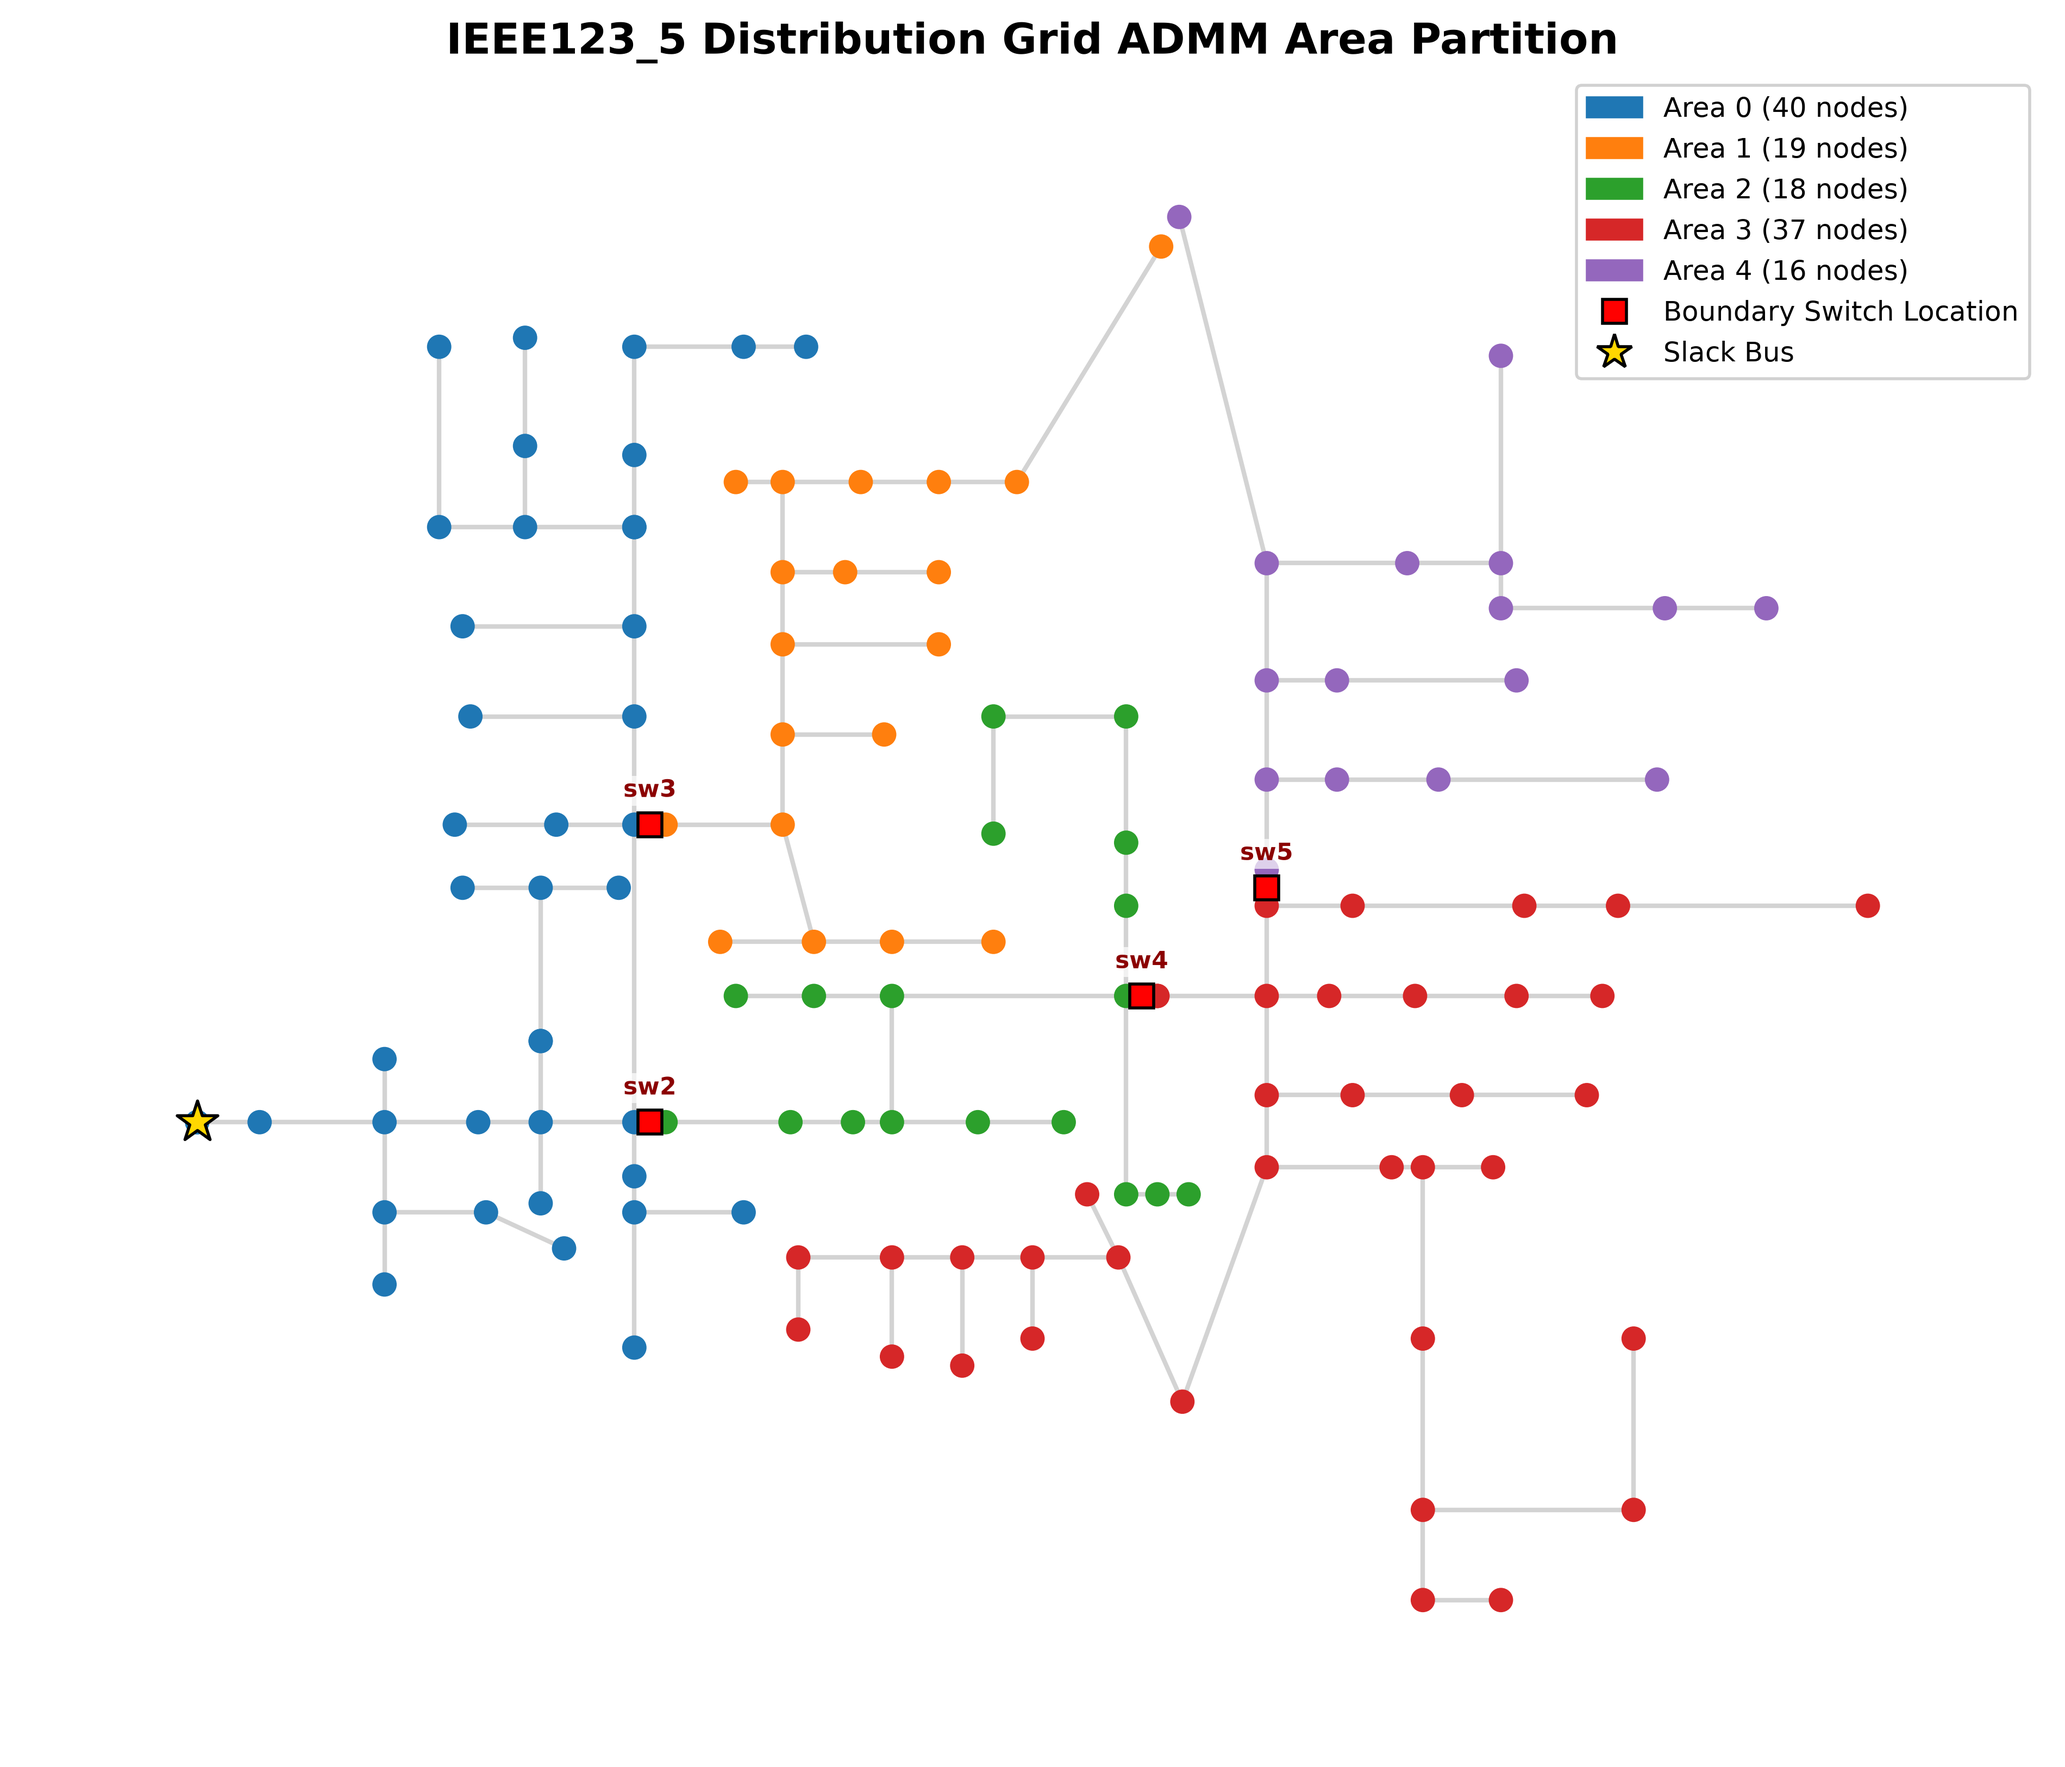
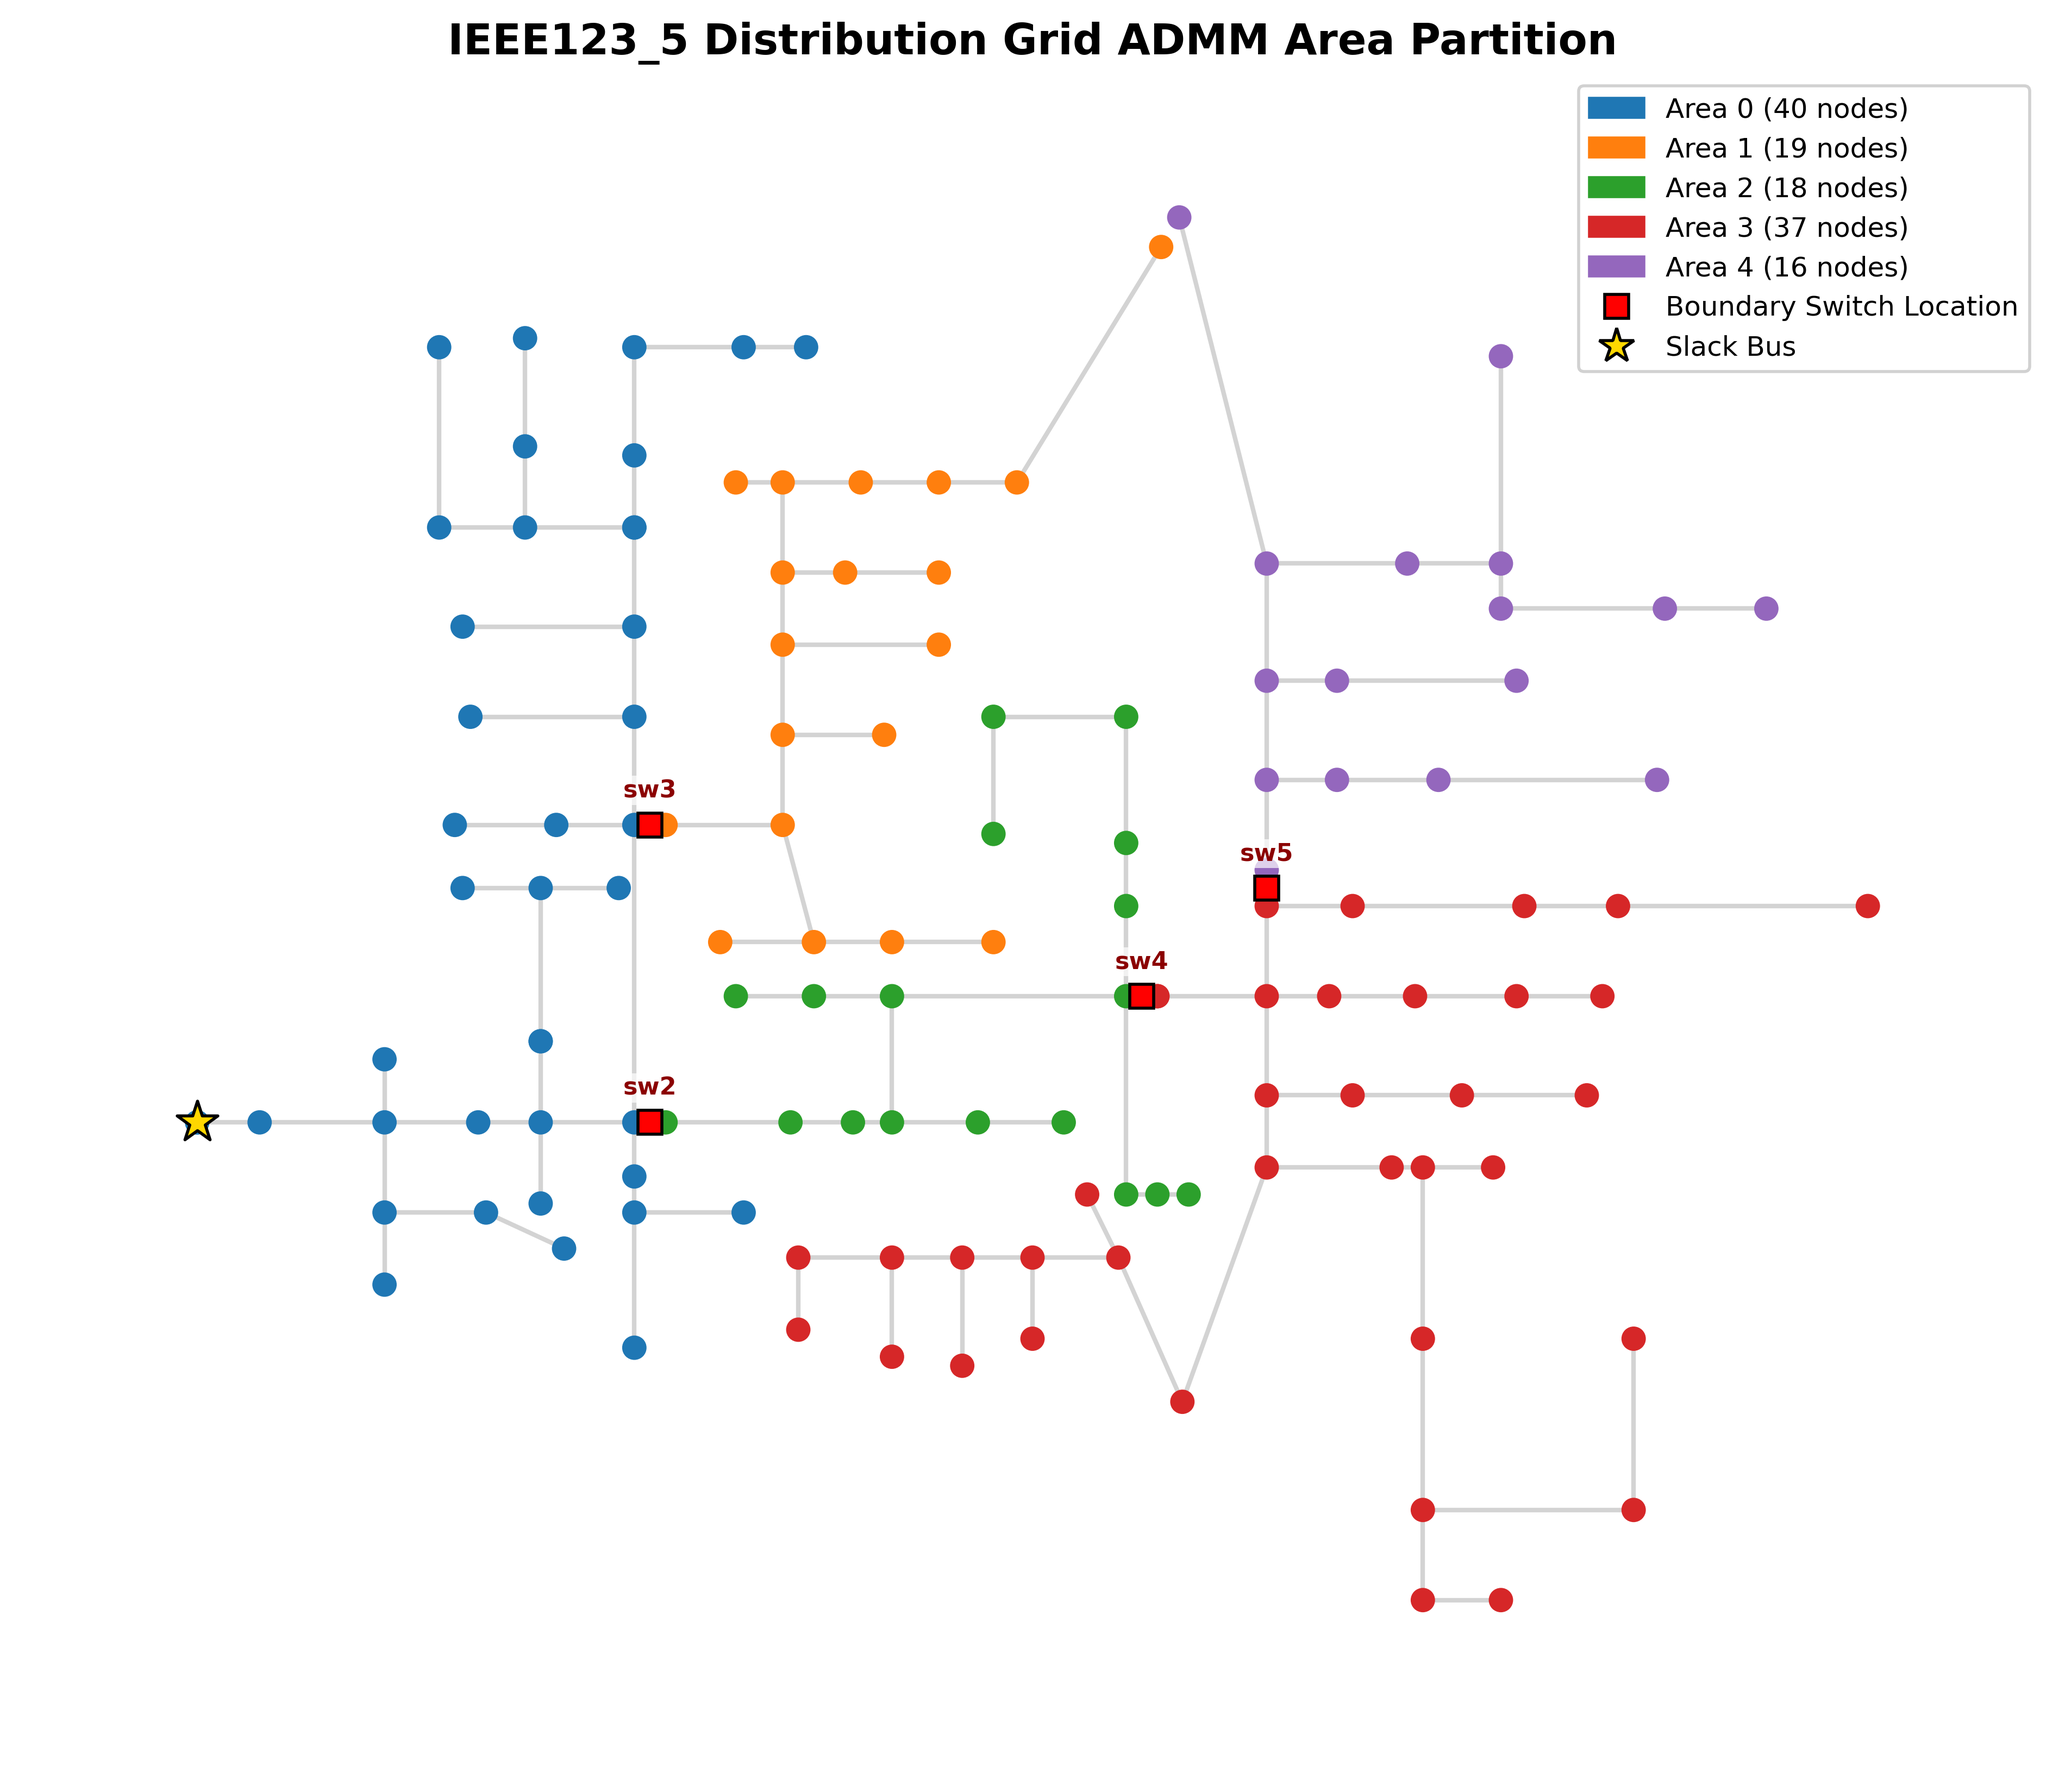
refactor(scripts): update scenario generator and metric plotter

diff --git a/scripts/plot_metrics.py b/scripts/plot_metrics.py
@@ -8,7 +8,10 @@ the feeder and ADMM areas to validate the performance and convergence of the ADM
 import argparse
 import logging
 import sys
+import warnings
 from pathlib import Path
+
+warnings.simplefilter(action="ignore", category=FutureWarning)
 
 # Add the component's src directory to sys.path so we can import admm_federate modules
 SCRIPT_DIR = Path(__file__).resolve().parent
@@ -17,39 +20,35 @@ sys.path.insert(0, str(COMPONENT_DIR / "src"))
 
 try:
     import matplotlib.pyplot as plt
-    from oedisi.types.data_types import Topology
-    from distopf.distributed.spatial.decompose import (
-        build_graph as generate_graph,
-        decompose_graph as area_disconnects,
-    )
-
+    from distopf_federate.plotting import (
+        area_disconnects,
         configure_publication_style,
-        load_scenario_parameters,
+        disconnect_areas,
+        generate_graph,
         get_der_mapping,
-        load_recorder_data,
-        process_voltages,
-        process_power_flows,
-        process_generation_adequacy,
-        process_convergence,
         get_max_diff_timestep,
-        plot_voltage_comparison,
-        plot_power_flow_comparison,
-        plot_generation_adequacy,
+        load_recorder_data,
+        load_scenario_parameters,
         plot_algorithmic_convergence,
-        plot_voltage_scatter_at_timestep,
-        plot_power_scatter_at_timestep,
+        plot_generation_adequacy,
         plot_network_partition,
+        plot_power_flow_comparison,
+        plot_power_scatter_at_timestep,
+        plot_voltage_comparison,
+        plot_voltage_scatter_at_timestep,
+        process_convergence,
+        process_generation_adequacy,
+        process_power_flows,
+        process_voltages,
     )
+    from oedisi.types.data_types import Topology
 except ImportError as e:
     print(
-        f"Error importing admm_federate or oedisi modules: {e}. "
+        f"Error importing distopf_federate or oedisi modules: {e}. "
         "Ensure the script is executed within the project virtual environment.",
         file=sys.stderr,
     )
     sys.exit(1)
-
-import warnings
-warnings.simplefilter(action='ignore', category=FutureWarning)
 
 # Configure logging
 logging.basicConfig(

diff --git a/scripts/generate_scenario.py b/scripts/generate_scenario.py
@@ -1,6 +1,7 @@
 import copy
 import json
 import os
+import sys
 
 import matplotlib.patches as mpatches
 import matplotlib.pyplot as plt
@@ -13,18 +14,18 @@ from oedisi.componentframework.system_configuration import (
 )
 from oedisi.types.data_types import Topology
 
-try:
-    from distopf.distributed.spatial.decompose import (
-        build_graph as generate_graph,
-        decompose_graph as area_disconnects,
-    )
-except ImportError:
-    generate_graph = None
-    area_disconnects = None
-
-
 SCRIPT_DIR = os.path.dirname(os.path.abspath(__file__))
 COMPONENT_DIR = os.path.dirname(SCRIPT_DIR)
+sys.path.insert(0, os.path.join(COMPONENT_DIR, "src"))
+
+from distopf_federate.plotting import (
+    area_disconnects,
+    disconnect_areas,
+    generate_graph,
+    get_area_source,
+    reconnect_area_switches,
+)
+
 ALGO = "pnnl_dopf_admm"
 NAME = ""
 OUTPUTS = "../../outputs"
@@ -650,7 +651,7 @@ def generate_for_model(
         f.write(system.model_dump_json())
 
     with open(f"{SCENARIOS}/{system.name}.json") as f:
-        check = WiringDiagram.model_validate_json(f.read())
+        WiringDiagram.model_validate_json(f.read())
 
     plot_network(
         G,
